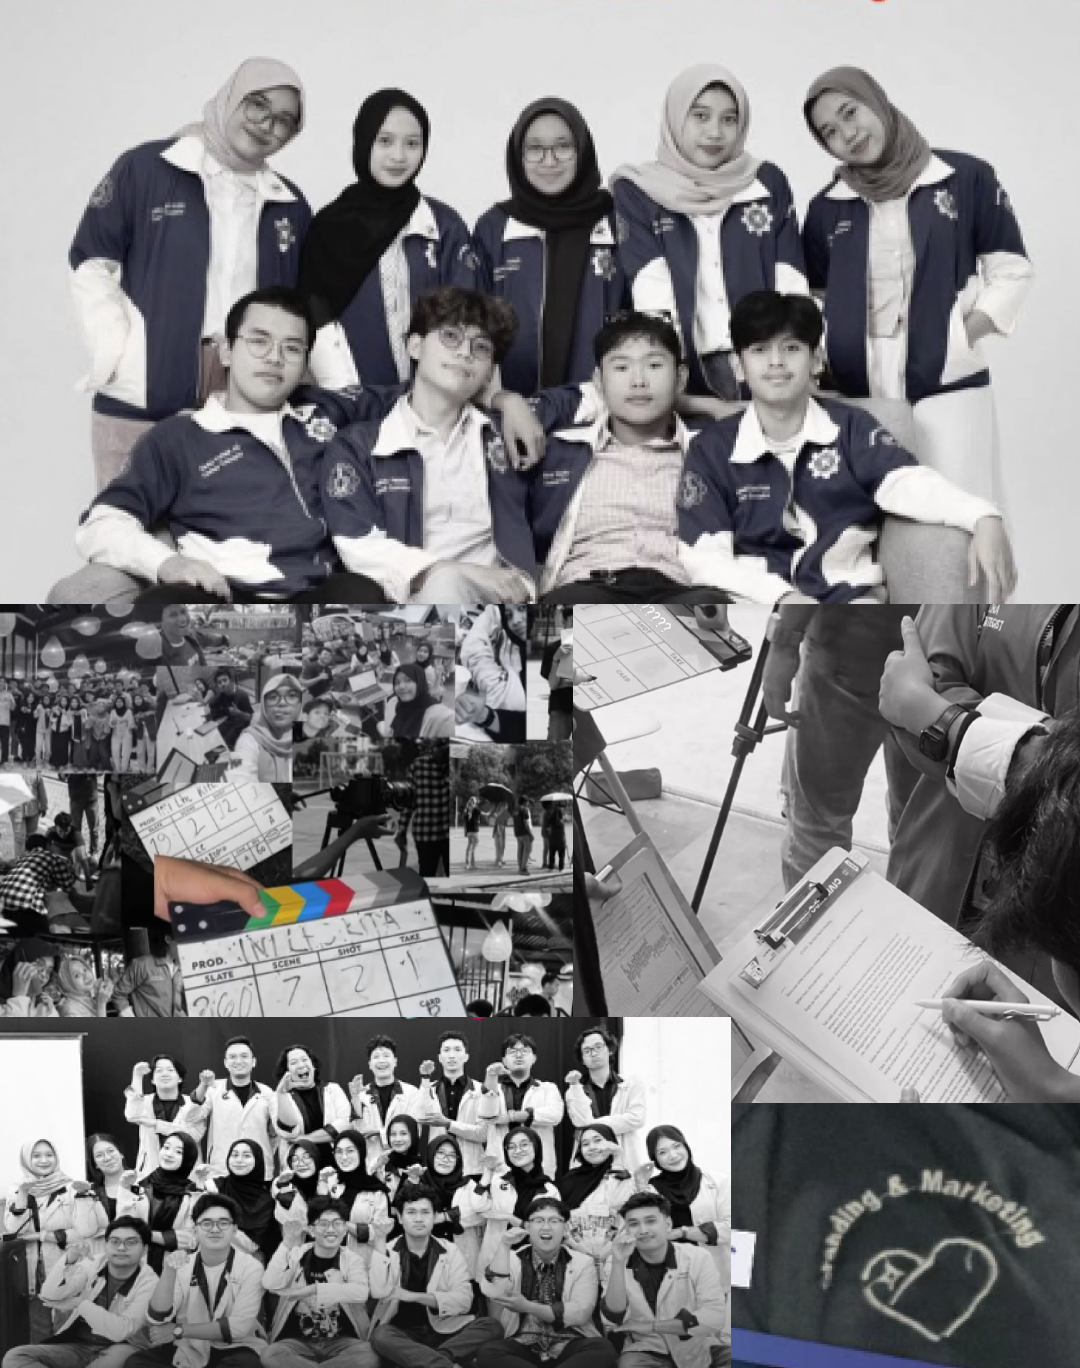
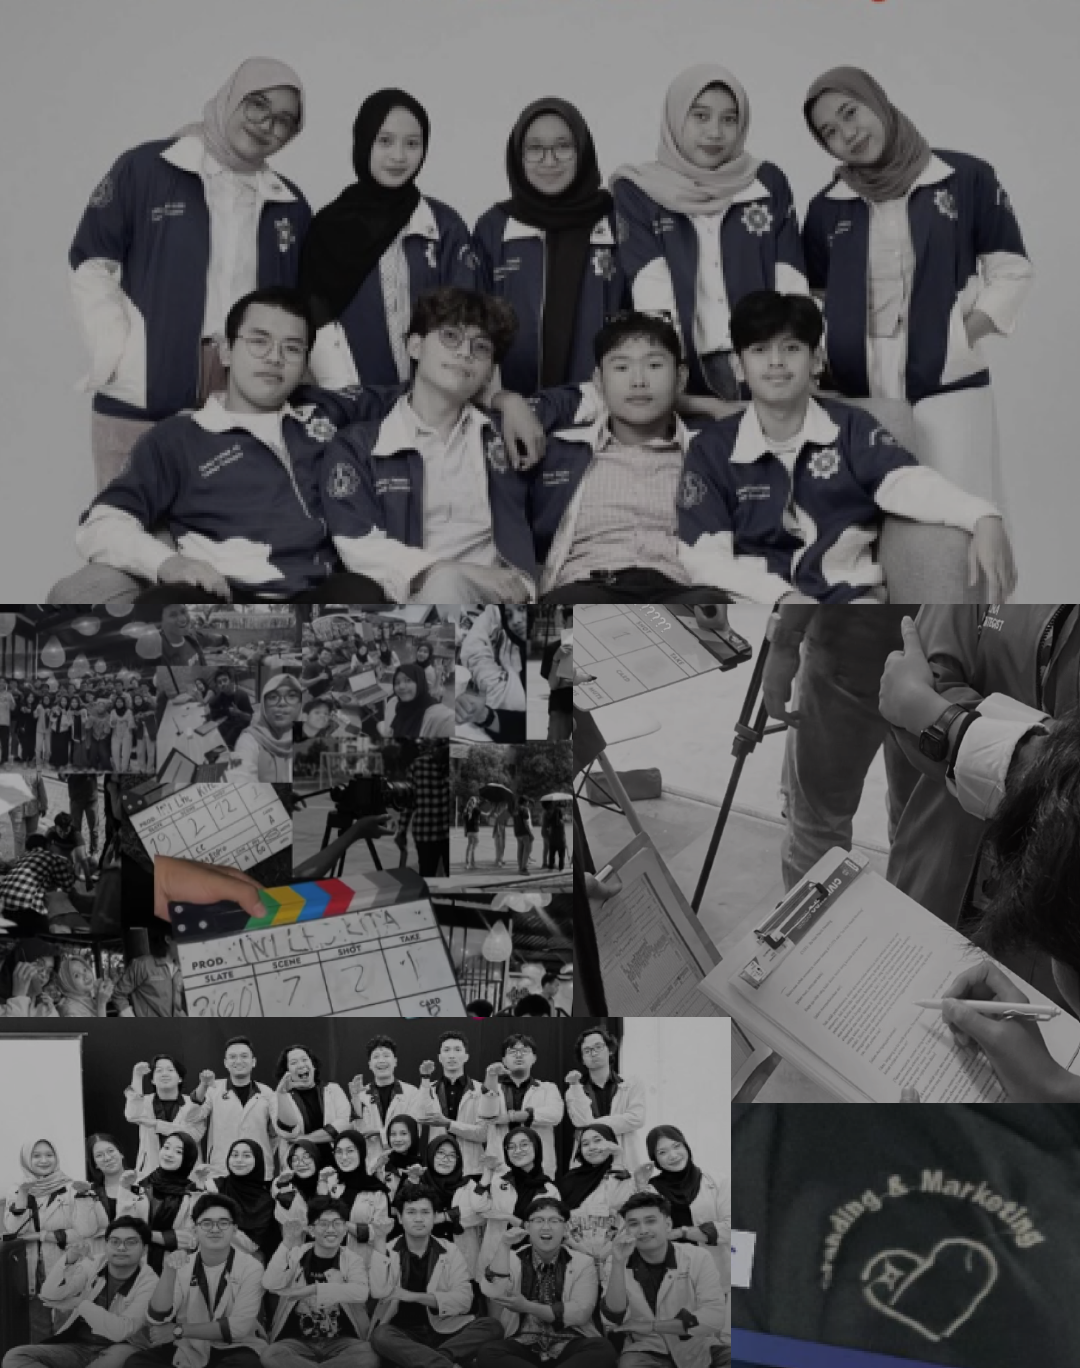
update porto 1.5

diff --git a/css/sections.css b/css/sections.css
@@ -8,11 +8,13 @@
 #s1 {
   background: var(--cream);
   display: flex;
+  flex-direction: column;
   align-items: center;
   justify-content: center;
   padding: 2em;
-}
-.s1-text {
+  gap: 0;
+  
+}.s1-text {
   font-family: var(--font-serif);
   font-size: clamp(1.4rem, 3.5vw, 2.8rem);
   font-weight: 400;
@@ -21,10 +23,9 @@
   line-height: 1.6;
 }
 .s1-cta {
-  position: absolute;
-  bottom: 6%;
-  left: 50%;
-  transform: translateX(-50%);
+  position: static;
+  transform: none;
+  margin-top: 2em;
   display: flex;
   align-items: center;
   gap: 10px;
@@ -37,10 +38,11 @@
   white-space: nowrap;
   animation: pulse-cta 2s ease-in-out infinite;
 }
+
 .s1-cta svg { width: 22px; height: 22px; fill: var(--olive); }
 @keyframes pulse-cta {
-  0%, 100% { opacity: .7; transform: translateX(-50%) translateY(0);    }
-  50%       { opacity:  1; transform: translateX(-50%) translateY(-5px); }
+  0%, 100% { opacity: .7; transform: translateY(0);    }
+  50%       { opacity:  1; transform: translateY(-5px); }
 }
 
 /* ─────────────────────────────
@@ -1102,11 +1104,10 @@
   }
 }
 
-/* ═══════════════════════════════
-   MOBILE FIX — PROJECTS + INTERNSHIP
-   TARUH PALING BAWAH sections.css
-═══════════════════════════════ */
-
+a.vol-item {
+  text-decoration: none;
+  display: flex;
+}
 /* ─────────────────────────────
    PROJECT CAROUSEL FIX
 ───────────────────────────── */

diff --git a/js/render.js b/js/render.js
@@ -348,12 +348,16 @@ function buildSlides() {
         <h2 class="vol-title"><em>Volunteer</em> Experience</h2>
         <p class="vol-sub">${d.volunteer.subtitle}</p>
         <div class="vol-grid">
-          ${d.volunteer.roles.map(r => `
-            <div class="vol-item ${r.featured ? 'featured' : ''}"
-                 ${r.photo ? `style="background-image:url('${r.photo}');background-size:cover;background-position:center;"` : ''}>
+          ${d.volunteer.roles.map(r => {
+            const hasLink = r.link && r.link !== '#';
+            return `<a class="vol-item ${r.featured ? 'featured' : ''}"
+              href="${r.link || '#'}"
+              ${hasLink ? 'target="_blank" rel="noopener noreferrer"' : 'onclick="return false"'}
+              style="text-decoration:none;${r.photo ? `background-image:url('${r.photo}');background-size:cover;background-position:center;` : ''}">
               <div class="vol-item-overlay"></div>
               <div class="vol-item-text" style="position:relative;z-index:1">${r.text}</div>
-            </div>`).join('')}
+            </a>`;
+          }).join('')}
         </div>
       </div>
       ${backBtn('s2')}

diff --git a/data/data.js b/data/data.js
@@ -258,14 +258,14 @@ const DATA = {
       {
         text:     "<strong><em>Supported the internalization for ITS</em></strong> with ITS Global Engagement Season 15",
         featured: true,
-        link:     "#",
+        link:     "https://drive.google.com/file/d/1zHNCxpFcXe0XbjBELTiNQTs9ljCczMxf/view?usp=sharing",
         photo:    "foto/itsge cover.png",
         /* ↑ paste your volunteer photo path here */
       },
       {
         text:     "Giving my love for <em>Branding and Marketing</em> for Ini Lho ITS, UKM EXPO ITS and more...",
         featured: false,
-        link:     "#",
+        link:     "https://drive.google.com/file/d/128jlO5dWphScQk4WQ2K1qjk9K0xI7jU9/view?usp=drive_link",
         photo:    "foto/bnmcover.png",
         /* ↑ paste your volunteer photo path here */
       },
